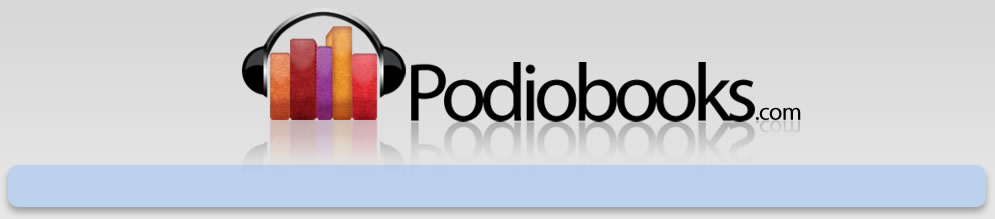
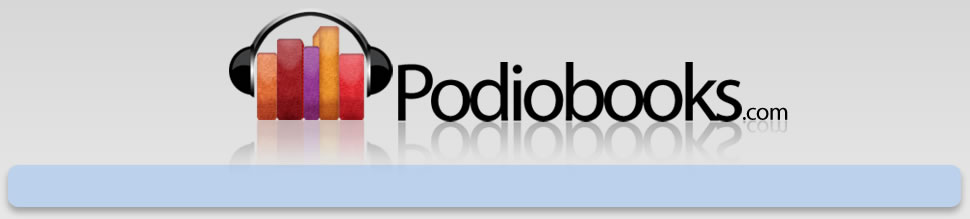
Oodles of CSS tweaks and cleanup, the main thing being the restoration of the 10px narrower body size to fit in the standard 1024x768 default browser window.
Former-commit-id: 3223c1b63fdad29d09eb23c768dcb0ae88cf3868
Former-commit-id: d397b0bfef4683aec394cc8cf108f88646b1d892
Former-commit-id: 35ae85566967ddc3dd04a2bafe893dab6d49fd44
Former-commit-id: b97c74cdd6c595e4ee6c8d67ea8818c476ec8841
Former-commit-id: 5751cd0cb7a4587ac15560c6b4e5b43de613af82

Changed region(s): [[0.2165, 0.0548, 0.4948, 0.6849], [0.5258, 0.274, 0.8351, 0.6301]]

diff --git a/src/podiobooks/media/themes/tim1/css/base.css b/src/podiobooks/media/themes/tim1/css/base.css
@@ -1,3 +1,43 @@
+a {
+	color: #0054a6;
+}
+
+a:hover {
+	color: #000;
+}
+
+body {
+	background: url(../images/pb-background.jpg) repeat-x #fff;
+	margin: 0px auto;
+	border: 0px none;
+	width: 970px;
+	font-family: "ff-dax-wide-web-pro-1", "ff-dax-wide-web-pro-2", "Verdana", "Arial", sans-serif;
+	color: #464646;
+}
+
+h1 {
+	font-size: 24px;
+	font-weight: bold;
+	margin: 20px;
+}
+
+h2 {
+	font-size: 22px;
+	font-weight: bold;
+	color: #fff;
+	margin: 0;
+}
+
+p {
+	margin: 0;
+}
+
+ul {
+	list-style: none;
+	margin: 0;
+	padding: 0;
+}
+
 .pb-float-clear {
 	clear: both;
 	margin: 0;
@@ -9,7 +49,14 @@
 #pb-header-background {
 	background: url(../images/pb-header.jpg) no-repeat;
 	height: 219px;
-	width: 995px;
+	width: 970px;
+}
+
+#pb-header-click-region {
+	cursor: pointer;
+	width: 600px;
+	height: 120px;
+	margin: 0 0 0 210px;
 }
 
 #pb-header-menubar {
@@ -20,7 +67,7 @@
 
 #pb-footer-text {
 	font-size: 11px;
-	width: 995px;
+	width: 970px;
 	text-align: center;
 	line-height: 2.0;
 	margin-top: 20px;
@@ -29,22 +76,6 @@
 .pb-footer-text-important {
 	font-size: 12px;
 	font-weight: bold;
-}
-
-.pb-body {
-	background: url(../images/pb-background.jpg) repeat-x #fff;
-	margin: 0px auto;
-	font-family: "ff-dax-wide-web-pro-1","ff-dax-wide-web-pro-2","Verdana","Arial",sans-serif;
-	width: 995px;
-	color: #464646;
-}
-
-.pb-body a {
-	color: #0054a6;
-}
-
-.pb-body a:hover {
-	color: #000;
 }
 
 .pb-shelf {
@@ -66,7 +97,8 @@
 .pb-shelf-middle {
 	float: left;
 	height: 226px;
-	width: 720px;
+	width: 695px;
+	padding: 0 0 0 5px;
 	background: url(../images/pb-shelfbox-light-middle.png) repeat-x;
 }
 
@@ -79,10 +111,8 @@
 }
 
 .pb-shelf-titlebar {
-	margin: 7px 0 15px 15px;
-	font-size: 22px;
-	font-weight: bold;
-	color: #fff;
+	margin: 4px 0 8px 15px;
+	height: 35px;
 	vertical-align: top;
 }
 
@@ -93,34 +123,17 @@
 }
 
 .pb-shelf-controller .dijitToggleButton {
-	border: none;
-	background-color: transparent;
-	clear: all;
-	margin: 0 0 0 4px !important;
+	margin: 0 0 0 4px;
 	vertical-align: top;
 }
 
 .pb-shelf-controller .dijitButtonNode {
 	border: none;
-	margin: 0 0 0 0;
-	width: 10px;
-	height: 10px;
-	vertical-align: top;
 }
 
 .pb-shelf-controller .dijitButtonContents {
-	border: none;
 	background: transparent;
 	vertical-align: top;
-	width: 10px;
-	height: 10px;
-}
-
-.pb-shelf-controller .dijitButtonContents button {
-	border: none;
-	background: transparent;
-	width: 10px;
-	height: 10px;
 }
 
 /* FireFox Button Padding Fix */
@@ -149,6 +162,7 @@
 .pb-shelf-container {
 	position: relative;
 	height: 164px;
+	clear: both;
 }
 
 .pb-shelf-pane {
@@ -162,12 +176,12 @@
 	width: 220px;
 	height: 160px;
 	float: left;
-	margin: 4px 0 0 15px;
+	margin: 0 5px 0 5px;
 	background: url(../images/pb-shelf-item-frame.png) no-repeat;
 }
 
 .pb-shelf-item-cover-image {
-	position:absolute;
+	position: absolute;
 	top: 13px;
 	left: 13px;
 }
@@ -186,7 +200,7 @@
 	position: absolute;
 	top: 13px;
 	left: 93px; 
-	margin-right: 10px;
+	margin: 0 10px 0 0;
 	white-space: normal;
 	text-align: left;
 }
@@ -223,8 +237,6 @@
 
 .pb-feature-shelf {
 	position: relative;
-	height: 230px;
-	width: 995px;
 	margin-bottom: 10px;
 	font-size: 11px;
 	color: #000;
@@ -238,7 +250,8 @@
 
 .pb-feature-shelf .pb-shelf-middle {
 	height: 230px;
-	width:  955px;
+	width:  925px;
+	padding: 1px 0 0 5px;
 	background: url(../images/pb-shelfbox-dark-middle.png) repeat-x;
 }
 
@@ -258,7 +271,7 @@
 	float: right;
 	position: relative;
 	top: -481px;
-	margin-right: 5px;
+	margin: 0 5px 0 0;
 }
 
 .pb-infobox-left {
@@ -290,54 +303,6 @@
 	width: 165px;
 	text-align: center;
 	font-weight: bold;
-	margin-left: 10px;
-	padding-top: 25px;
-}
-
-/* clear the styles */
-html, body, div, span, applet, object, iframe,
-h1, h2, h3, h4, h5, h6, p, blockquote, pre,
-a, abbr, acronym, address, big, cite, code,
-del, dfn, em, font, img, ins, kbd, q, s, samp,
-small, strike, strong, sub, sup, tt, var,
-dl, dt, dd, ol, ul, li,
-fieldset, form, label, legend,
-table, caption, tbody, tfoot, thead, tr, th, td {
-	margin: 0;
-	padding: 0;
-	border: 0;
-	outline: 0;
-	font-weight: inherit;
-	font-style: inherit;
-	font-size: 100%;
-	font-family: inherit;
-	vertical-align: baseline;
-}
-/* remember to define focus styles! */
-:focus {
-	outline: 0;
-}
-body {
-	line-height: 1;
-	color: black;
-	background: white;
-}
-ol, ul {
-	list-style: none;
-}
-/* tables still need 'cellspacing="0"' in the markup */
-table {
-	border-collapse: separate;
-	border-spacing: 0;
-}
-caption, th, td {
-	text-align: left;
-	font-weight: normal;
-}
-blockquote:before, blockquote:after,
-q:before, q:after {
-	content: "";
-}
-blockquote, q {
-	quotes: "" "";
+	margin: 0 0 0 10px;
+	padding: 25px 0 0 0;
 }

diff --git a/src/podiobooks/templates/themes/tim1/main/tags/show_shelf.html b/src/podiobooks/templates/themes/tim1/main/tags/show_shelf.html
@@ -17,7 +17,7 @@
     </div>
     <div class="pb-shelf-middle">
         <div class="pb-shelf-titlebar">
-            {{ shelf_title }}<span class="pb-shelf-controller" dojoType="dijit.layout.StackController" containerId="{{ shelf_id }}" buttonWidget="pbwidgets.book_shelf._StackButton"></span>
+            <h2 style="float: left;">{{ shelf_title }}</h2><span class="pb-shelf-controller" dojoType="dijit.layout.StackController" containerId="{{ shelf_id }}" buttonWidget="pbwidgets.book_shelf._StackButton"></span>
         </div>
         {% if title_list %}
         <div dojoType="pbwidgets.book_shelf.BookShelfSlide" id="{{ shelf_id }}" doLayout="true" class="pb-shelf-container">

diff --git a/src/podiobooks/templates/themes/tim1/main/tags/show_infobox.html b/src/podiobooks/templates/themes/tim1/main/tags/show_infobox.html
@@ -8,10 +8,10 @@
             <br>
             News
         </div>
-        <div id="rssfeed" name="rssfeed" style="line-height: 1.1; margin-left: 12px; margin-top: -20px;">
-            <ul style="list-style-type: circle;">
+        <div id="rssfeed" name="rssfeed" style="line-height: 1.1; margin: -20px 0 0 0;">
+            <ul style="list-style-type: circle; margin: 0 0 0 12px; padding: 0">
                 {% for entry in update_list|slice:":8" %}
-                <li style="margin-top: 8px">
+                <li style="margin: 8px 0 0 0">
                     <a href="{{ entry.link }}">{{ entry.title }}</a>
                 </li>
                 {% endfor %}

diff --git a/src/podiobooks/templates/themes/tim1/header.html b/src/podiobooks/templates/themes/tim1/header.html
@@ -1,7 +1,7 @@
 {% load main_templatetags %}<!-- Header - Logo and Navigation Bar -->
 <div id="header">
     <div id="pb-header-background">
-        <div id="pb-header-click-region" style="cursor: pointer; width: 600px; height: 120px; margin: 35px 0 0 210px" onclick="document.location.href = ('/')">
+        <div id="pb-header-click-region" onclick="document.location.href = ('/')">
         </div>
         <div id="pb-header-menubar">
             <a href="http://podiobooks.com/about.php">FAQ</a>

diff --git a/src/podiobooks/templates/themes/tim1/main/category/detail.html b/src/podiobooks/templates/themes/tim1/main/category/detail.html
@@ -3,9 +3,9 @@
 {% block headtitle %}{{ category.name }} Category - {{ site_name }}{% endblock %}
 {% block content %}
 {% if category.title_set.all.count %}
-<div style="font-size: 24px; margin: 20px;">
+<h1>
     All Titles in {{ category.name }}
-</div>
+</h1>
 {% show_titlelist category.title_set.all %}
 <!-- Script to change the category choice form to match the current category -->
 <script type="text/javascript">

diff --git a/src/podiobooks/templates/themes/tim1/main/contributor/detail.html b/src/podiobooks/templates/themes/tim1/main/contributor/detail.html
@@ -3,9 +3,9 @@
 {% block headtitle %}{{ category.name }} {{ contributor.display_name }} Profile - {{ site_name }}{% endblock %}
 {% block content %}
 {% if contributor.title_set.all.count %}
-<div style="font-size: 24px; margin: 20px 20px 30px 20px;">
+<h1>
     {{ contributor.display_name }}
-</div>
+</h1>
 {% show_titlelist contributor.title_set.all %}
 <div style="margin: 400px 20px 300px 20px;"></div>
 {% else %}

diff --git a/src/podiobooks/templates/themes/tim1/base.html b/src/podiobooks/templates/themes/tim1/base.html
@@ -38,7 +38,7 @@
 </script>
 {% block head %}{% endblock %}
 </head>
-<body {% block bodyid %}{% endblock %}{% block bodyclass %}class="pb-body"{% endblock %}">
+<body>
 {% block header %}{% include "header.html" %}{% endblock %}
 {% block contentdivopen %}<div id="content">{% endblock %}
 {% block content %}No Content Defined{% endblock %}
